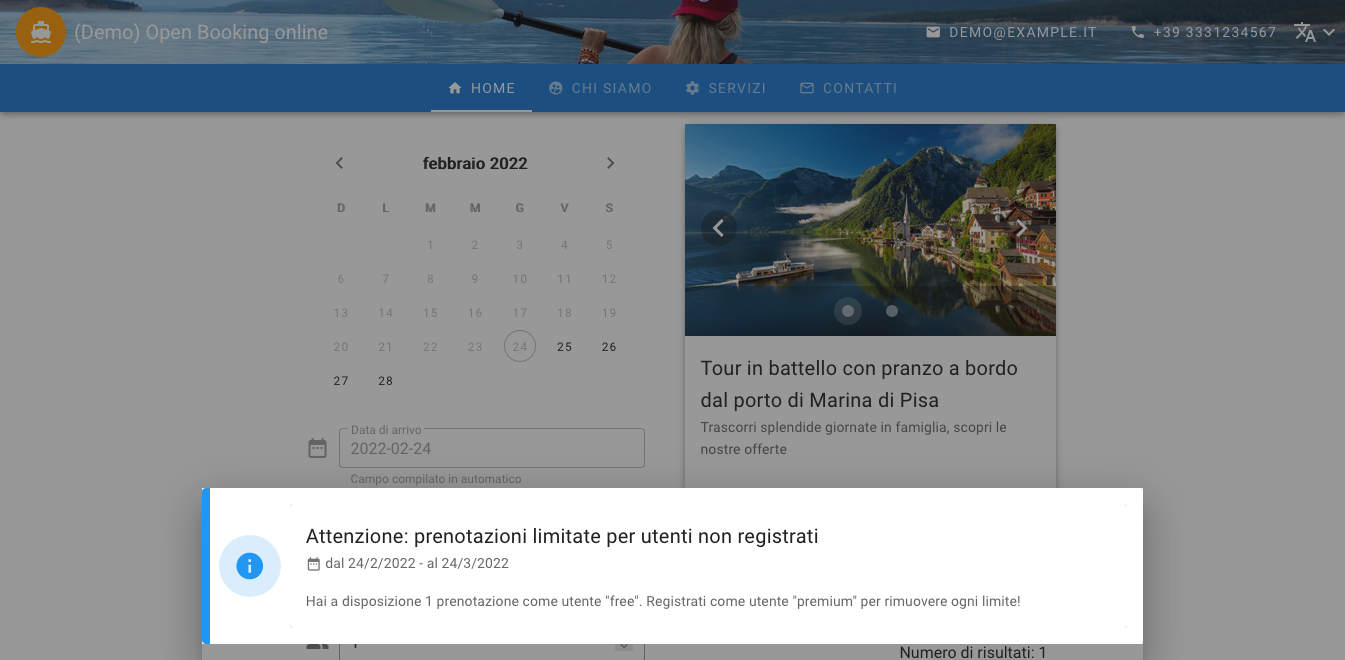
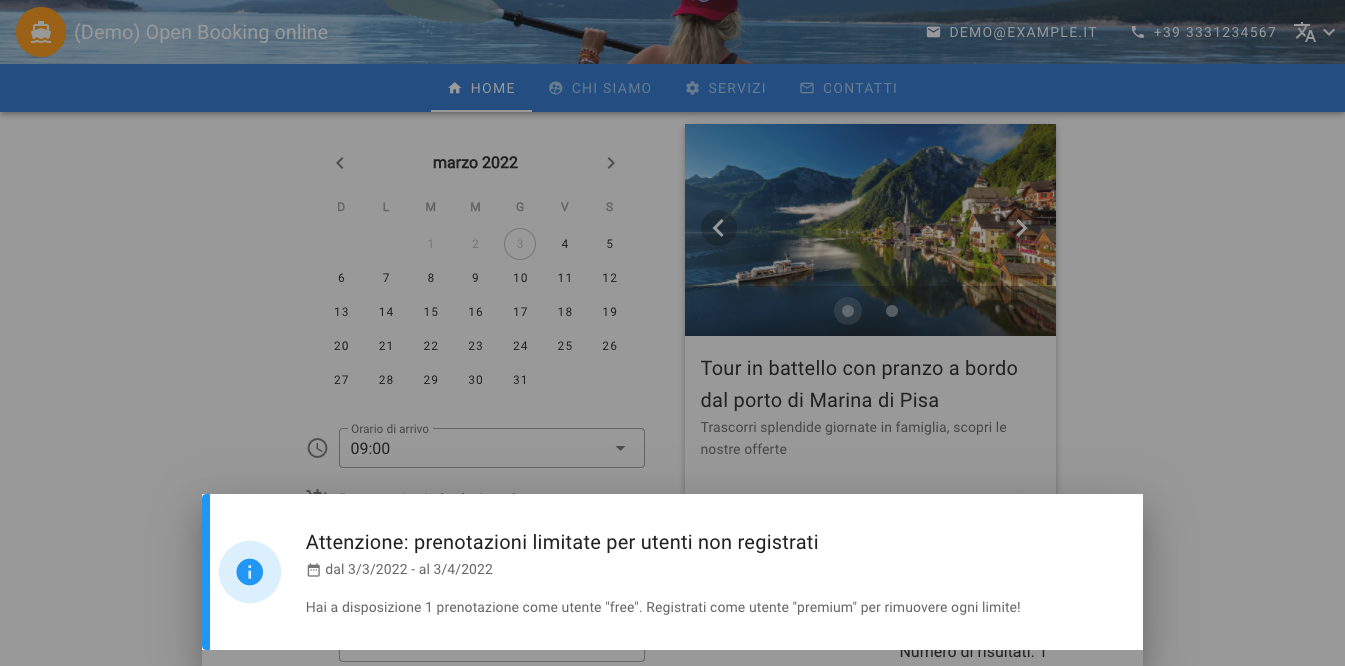
update: snapshot update: readme update: labels for better readability add: class css and styles css

diff --git a/src/components/Calendar.vue b/src/components/Calendar.vue
@@ -1,6 +1,6 @@
 <template>
   <v-row>
-    <v-col md="4" sm="6" offset-md="2">
+    <v-col md="4" sm="6" offset-md="2" class="v-card--form">
       <v-form v-model="flags.valid" ref="form" lazy-validation @submit.prevent="submit()">
         <v-card tile flat>
           <v-card-text>
@@ -29,6 +29,7 @@
               readonly
               dense
               required
+              v-show="fields.checkInDate.show"
             ></v-text-field>
 
             <v-select
@@ -227,10 +228,10 @@
             </template>
           </v-card-text>
           <v-card-actions class="justify-center">
-            <v-btn text outlined @click="reset()">
+            <v-btn text outlined :color="colors.secondary" @click="reset()">
               {{ fields.reset.label }}
             </v-btn>
-            <v-btn text outlined @click="submit()" type="submit">
+            <v-btn text outlined :color="colors.primary" @click="submit()" type="submit">
               {{ fields.submit.label }}
             </v-btn>
           </v-card-actions>
@@ -471,6 +472,7 @@
   min-height: 24px;
 }
 
+.v-card--form >>> .v-card__title,
 .v-card--list >>> .v-card__title {
   word-break: break-word;
 }
@@ -867,7 +869,7 @@ export default {
           <div><strong>${I18N.load().common.nKids}:</strong> ${d.kids}</div>
           <div><strong>${I18N.load().common.note}:</strong> ${d.note}</div>
           <div><strong>${I18N.load().common.dateStart}:</strong> ${d.date_start}</div>
-          <div><strong>${I18N.load().common.productsList}:</strong><div>${product}</div></div>
+          <div><strong>${I18N.load().common.cart}:</strong><div>${product}</div></div>
         `
       }
 

diff --git a/src/common/locale.js b/src/common/locale.js
@@ -19,7 +19,6 @@ export const I18N = {
       notAvaible: 'Nessuna disponibilità',
       notFound: 'La pagina richiesta non è stata trovata',
       browserNotSupported: 'Questo browser non supporta la persistenza dei dati, si consiglia di provare un altro browser.',
-      conditions: 'Condizioni',
       lastUpdate: 'Ultimi aggiornamenti',
       notices: 'Avvisi',
       notify: 'Notifiche',
@@ -43,8 +42,7 @@ export const I18N = {
       family: 'Famiglia',
       couple: 'Coppia',
       friends: 'Amici',
-      condition: 'Accetta le condizioni per continuare',
-      terms: 'Accetta i termini per continuare',
+      terms: 'Accetta i termini e le condizioni sul trattamento dei dati per continuare',
       autoFilled: 'Campo compilato in automatico',
       signin: 'Iscriviti',
       confirm: 'Riceverai una email per confermare l\'iscrizione',
@@ -68,7 +66,7 @@ export const I18N = {
       timeStart: 'Orario di arrivo',
       timeEnd: 'Orario di partenza',
       dateFrom: 'Dal',
-      cart: 'In prenotazione',
+      cart: 'Prenotazioni che hai scelto',
       nAdults: 'Numero adulti',
       nKids: 'Numero bambini',
       nRecord: 'Numero di risultati',
@@ -86,8 +84,8 @@ export const I18N = {
         sortBy: 'Ordina per'
       },
       signUp: {
-        title: 'Iscriviti',
-        caption: 'Riceverai una email per confermare l\'iscrizione'
+        title: 'Inserisci i tuoi contatti per completare la prenotazione',
+        caption: 'Riceverai una email di conferma'
       }
     },
     unit: {

diff --git a/src/common/form.js b/src/common/form.js
@@ -139,7 +139,8 @@ export const CHECKIN_DATE = {
   value: '',
   label: I18N.load().common.dateStart,
   icon: ICONS.dateRange,
-  hint: I18N.load().common.autoFilled
+  hint: I18N.load().common.autoFilled,
+  show: false
 }
 
 export const CHECKIN_TIME = {
@@ -181,11 +182,11 @@ export const SORT_BY = {
   value: null,
   list: [
     {
-      text: 'A-Z',
+      text: 'A-Z: ordine crescente',
       value: 'asc'
     },
     {
-      text: 'Z-A',
+      text: 'Z-A: ordine decrescente',
       value: 'desc'
     }
   ]
@@ -195,17 +196,7 @@ export const CHECKBOX_PRIVACY = [
   {
     href: process.env.VUE_APP_LINK_PRIVACY_TERM,
     label: I18N.load().common.terms,
-    text: I18N.load().common.terms,
-    checkbox: false,
-    required: true,
-    rules: [
-      v => !!v || I18N.load().validation.required
-    ]
-  },
-  {
-    href: process.env.VUE_APP_LINK_PRIVACY_CONDITION,
-    label: I18N.load().common.conditions,
-    text: I18N.load().common.condition,
+    text: '',
     checkbox: false,
     required: true,
     rules: [

diff --git a/src/components/models/test.js b/src/components/models/test.js
@@ -245,7 +245,7 @@ export const TEST = {
             url: 'https://it-it.facebook.com/'
           }
         ],
-        copyright: `&copy;${year} OBO - (Demo) Open Booking online. Tutti i diritti riservati`,
+        copyright: `&copy;${year} (Demo) Open Booking online. Tutti i diritti riservati`,
         note: ''
       }
     }
@@ -329,7 +329,7 @@ export const TEST = {
     if (process.env.VUE_APP_NODE_ENV === EnvEnum.DEMO) {
       products.push({
         id: 1111,
-        text: 'Lumenia XR-1000. Anno: 2008'
+        text: 'Tour in barca Lumenia XR-1000.'
       })
     } else {
       for (let i = 0; i < faker.datatype.number({ min: 1, max: 10 }); ++i) {

diff --git a/src/components/Page.vue b/src/components/Page.vue
@@ -3,7 +3,7 @@
     <v-col md="3" offset-md="2">
       <v-card flat>
         <v-card-title>{{ title }}</v-card-title>
-        <v-card-subtitle v-html="subtitle"></v-card-subtitle>
+        <v-card-subtitle v-text="subtitle"></v-card-subtitle>
         <v-card-text v-html="short_description"></v-card-text>
       </v-card>
     </v-col>
@@ -57,7 +57,6 @@ export default {
             clearTimeout(t)
             this.loading = false
           }).catch((e) => {
-            this.showDialogError(e)
             clearTimeout(t)
             this.loading = false
           })

diff --git a/README.md b/README.md
@@ -53,7 +53,7 @@ The default settings use a simulated api response template, if you want to use a
 - Edit file: "src/common/colors.js"
 
 ## DEMO TEMPLATE
-![1-home-dialog](https://user-images.githubusercontent.com/41728059/155615448-485a4c97-3720-4c91-bb2d-faf201fc957e.png)
-![2-home](https://user-images.githubusercontent.com/41728059/155615456-a1506fb9-fe77-4101-b852-2a61672f479c.png)
-![3-home-selected](https://user-images.githubusercontent.com/41728059/155615467-61cd0777-b9e1-460d-bcd5-43c03002c050.png)
-![4-home-booking](https://user-images.githubusercontent.com/41728059/155615473-7f0357db-602c-4716-ad89-abcac8d5dc32.png)
+![1-home-dialog](https://user-images.githubusercontent.com/41728059/156658232-ea30b8ed-f42c-4ecb-b5d1-214323f3c1ef.png)
+![2-home](https://user-images.githubusercontent.com/41728059/156658246-34350d64-8673-42f4-856a-5d0463f15695.png)
+![3-home-selected](https://user-images.githubusercontent.com/41728059/156658255-47ea8410-4e18-4d95-b93c-447882c83dac.png)
+![4-home-booking](https://user-images.githubusercontent.com/41728059/156658264-d3c114de-0a77-4ff5-b5c5-1d95c7bc25fb.png)
